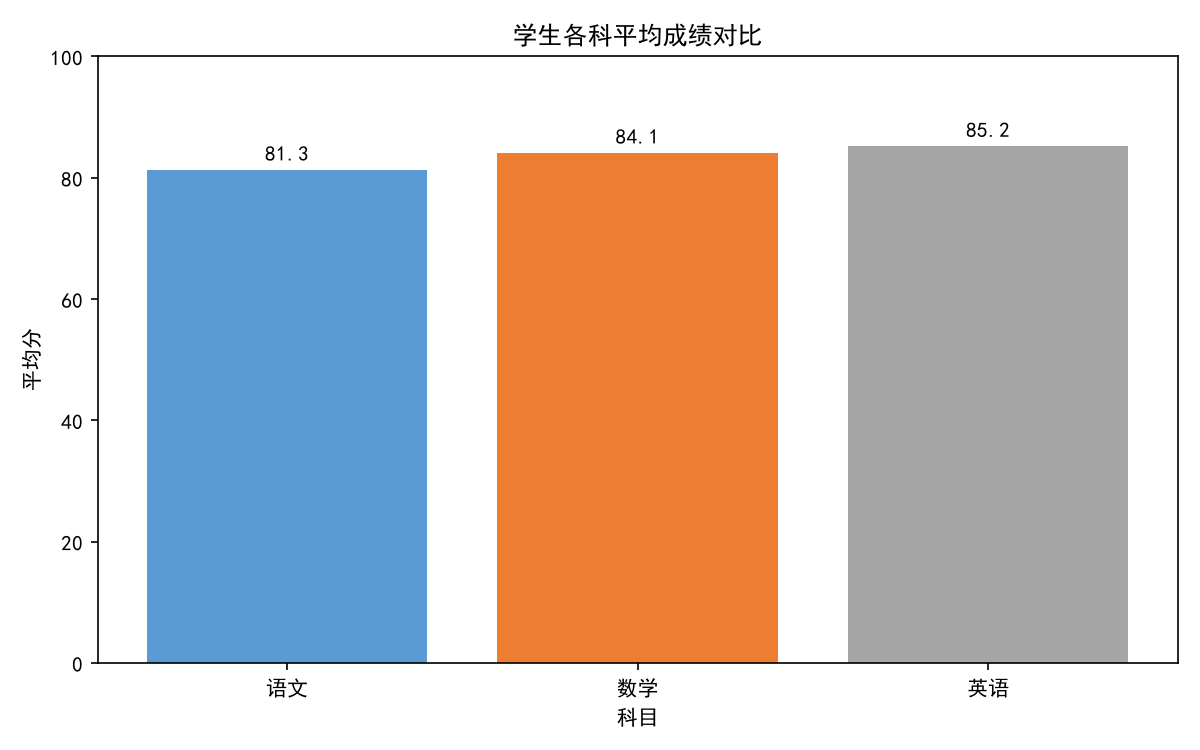
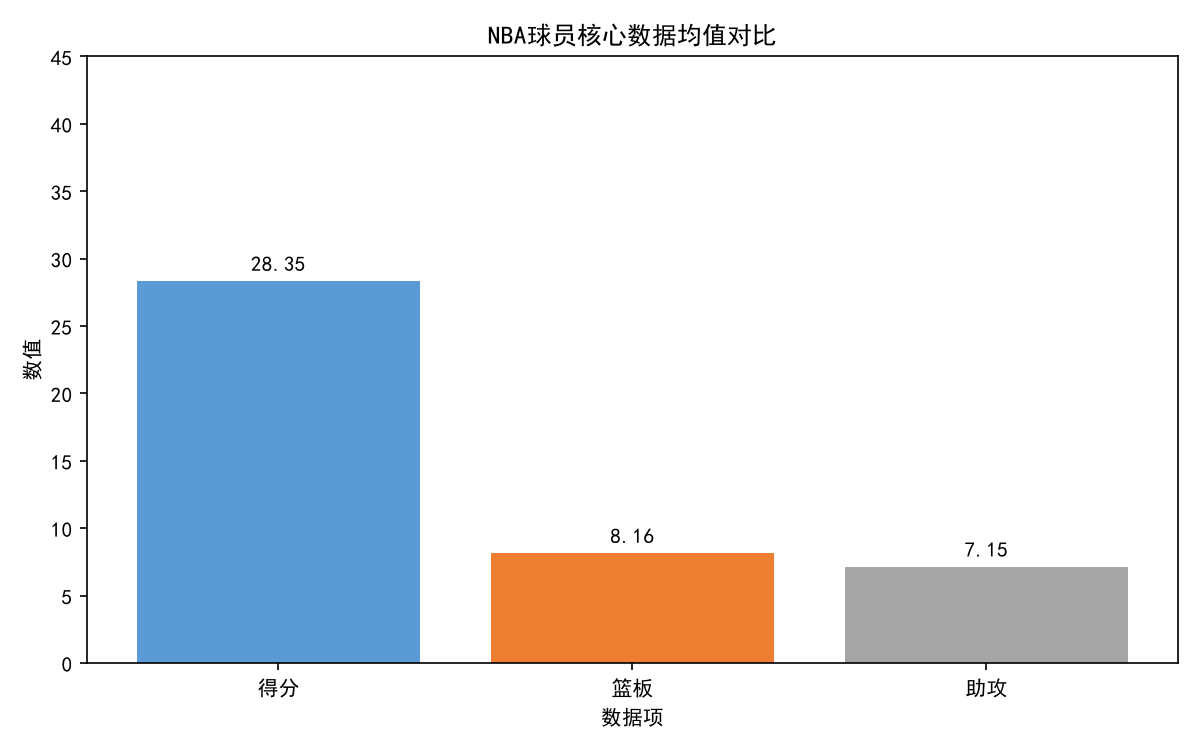
chore: Demo2 数据集换成NBA球员数据
- data_student.csv: 10名NBA球星得分/篮板/助攻/总效率
- demo2.py: 图表标题和列名同步更新为NBA主题
- 重新生成两张图表

diff --git a/demo2.py b/demo2.py
@@ -17,9 +17,9 @@ OUT_DIR = "charts"
 
 
 def load_data(path):
-    """读取 CSV 文件，做简单类型校验。"""
+    """读取 CSV 文件。"""
     df = pd.read_csv(path)
-    # 排除非数值列（姓名），自动识别数值列
+    # 排除非数值列（球员、球队），自动识别数值列
     return df
 
 
@@ -39,32 +39,32 @@ def compute_stats(df):
 
 
 def plot_bar(stats, out_path):
-    """柱状图：各科平均成绩对比。"""
+    """柱状图：NBA球员核心数据均值对比。"""
     fig, ax = plt.subplots(figsize=(8, 5))
-    # 只统计语文/数学/英语三科，不包含总分
-    subject_stats = stats.loc[["语文", "数学", "英语"]]
-    ax.bar(subject_stats.index, subject_stats["mean"], color=["#5B9BD5", "#ED7D31", "#A5A5A5"])
-    ax.set_title("学生各科平均成绩对比")
-    ax.set_xlabel("科目")
-    ax.set_ylabel("平均分")
-    ax.set_ylim(0, 100)
+    # 只统计得分/篮板/助攻三项核心数据，不包含总效率
+    core_stats = stats.loc[["得分", "篮板", "助攻"]]
+    ax.bar(core_stats.index, core_stats["mean"], color=["#5B9BD5", "#ED7D31", "#A5A5A5"])
+    ax.set_title("NBA球员核心数据均值对比")
+    ax.set_xlabel("数据项")
+    ax.set_ylabel("数值")
+    ax.set_ylim(0, 45)
     # 柱顶标数值
-    for i, v in enumerate(subject_stats["mean"]):
-        ax.text(i, v + 1, f"{v}", ha="center", va="bottom")
+    for i, v in enumerate(core_stats["mean"]):
+        ax.text(i, v + 0.5, f"{v}", ha="center", va="bottom")
     fig.tight_layout()
     fig.savefig(out_path, dpi=150)
     plt.close(fig)
 
 
 def plot_line(df, out_path):
-    """折线图：按总分降序排列的学生成绩趋势。"""
+    """折线图：按总效率降序排列的NBA球员排名。"""
     fig, ax = plt.subplots(figsize=(8, 5))
-    # 按总分降序
-    sorted_df = df.sort_values("总分", ascending=False).reset_index(drop=True)
-    ax.plot(sorted_df["姓名"], sorted_df["总分"], marker="o", color="#4472C4", linewidth=2)
-    ax.set_title("学生总分排名趋势")
-    ax.set_xlabel("学生（按总分降序）")
-    ax.set_ylabel("总分")
+    # 按总效率降序
+    sorted_df = df.sort_values("总效率", ascending=False).reset_index(drop=True)
+    ax.plot(sorted_df["球员"], sorted_df["总效率"], marker="o", color="#4472C4", linewidth=2)
+    ax.set_title("NBA球员总效率排名")
+    ax.set_xlabel("球员（按总效率降序）")
+    ax.set_ylabel("总效率")
     ax.tick_params(axis="x", rotation=30)
     fig.tight_layout()
     fig.savefig(out_path, dpi=150)
